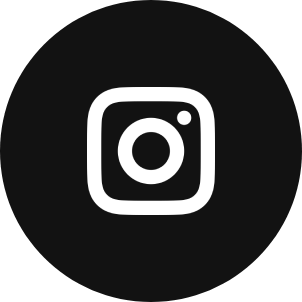
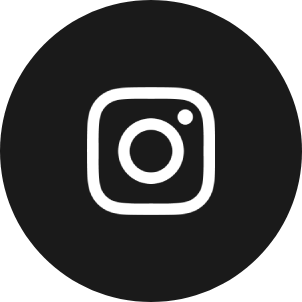
replace design files

diff --git a/src/assets/svg/icons.tsx b/src/assets/svg/icons.tsx
@@ -1,12 +1,12 @@
 export const InstagramIcon = (
-	<svg width='25' height='25' viewBox='0 0 24 24' xmlns='http://www.w3.org/2000/svg'>
-		<path d='M17.3183118,0.0772036939 C18.5358869,0.132773211 19.3775594,0.311686093 20.156489,0.614412318 C20.9357539,0.917263935 21.5259307,1.30117806 22.1124276,1.88767349 C22.6988355,2.47414659 23.0827129,3.06422396 23.3856819,3.84361655 C23.688357,4.62263666 23.8672302,5.46418415 23.9227984,6.68172489 C23.9916356,8.19170553 24,8.72394829 24,11.9999742 C24,15.2760524 23.9916355,15.808302 23.9227954,17.3182896 C23.8672306,18.5358038 23.6883589,19.3773584 23.3855877,20.1566258 C23.0826716,20.9358162 22.6987642,21.5259396 22.1124276,22.1122749 C21.5259871,22.6987804 20.9357958,23.0827198 20.1563742,23.3856323 C19.3772192,23.6883583 18.5357324,23.8672318 17.3183209,23.9227442 C15.8086874,23.9916325 15.2765626,24 12,24 C8.72343739,24 8.19131258,23.9916325 6.68172382,23.9227463 C5.46426077,23.8672314 4.62270711,23.6883498 3.84342369,23.3855738 C3.0641689,23.0827004 2.47399369,22.6987612 1.88762592,22.1123283 C1.30117312,21.525877 0.91721975,20.9357071 0.614318116,20.1563835 C0.311643016,19.3773633 0.132769821,18.5358159 0.0772038909,17.3183251 C0.0083529426,15.8092887 0,15.2774634 0,11.9999742 C0,8.7225328 0.00835296697,8.19071076 0.0772047368,6.68165632 C0.132769821,5.46418415 0.311643016,4.62263666 0.614362729,3.84350174 C0.91719061,3.06430165 1.30113536,2.4741608 1.88757245,1.88772514 C2.47399369,1.30123879 3.0641689,0.917299613 3.84345255,0.614414972 C4.62236201,0.311696581 5.46409415,0.132773979 6.68163888,0.0772035898 C8.19074867,0.00835221992 8.72252573,0 12,0 C15.2774788,0 15.8092594,0.00835235053 17.3183118,0.0772036939 Z M12,2.66666667 C8.75959504,2.66666667 8.26400713,2.67445049 6.80319929,2.74109814 C5.87614637,2.78341009 5.31952221,2.90172878 4.80947575,3.09995521 C4.37397765,3.26922052 4.09725505,3.44924273 3.77324172,3.77329203 C3.44916209,4.09737087 3.26913181,4.37408574 3.09996253,4.80937168 C2.90169965,5.31965737 2.78340891,5.87618164 2.74109927,6.80321713 C2.67445122,8.26397158 2.66666667,8.75960374 2.66666667,11.9999742 C2.66666667,15.2403924 2.67445121,15.7360281 2.74109842,17.1967643 C2.78340891,18.1238184 2.90169965,18.6803426 3.09990404,19.1904778 C3.26914133,19.6259017 3.44919889,19.9026659 3.77329519,20.2267614 C4.09725505,20.5507573 4.37397765,20.7307795 4.80932525,20.8999863 C5.31971515,21.0982887 5.87621193,21.2165784 6.80323907,21.2588497 C8.26460439,21.3255353 8.76051223,21.3333333 12,21.3333333 C15.2394878,21.3333333 15.7353956,21.3255353 17.1968056,21.2588476 C18.123775,21.216579 18.6802056,21.0982995 19.1905083,20.9000309 C19.6260288,20.7307713 19.9027426,20.5507596 20.2267583,20.226708 C20.5507492,19.9027179 20.7308046,19.6259456 20.9000375,19.1906283 C21.0983009,18.6803412 21.2165908,18.1238118 21.2588986,17.196779 C21.3255376,15.7350718 21.3333333,15.2390126 21.3333333,11.9999742 C21.3333333,8.76098665 21.3255376,8.26493375 21.2589016,6.80323567 C21.2165911,5.87618164 21.0983004,5.31965737 20.9001178,4.80957831 C20.7308131,4.37403932 20.550774,4.09729207 20.2267583,3.77324038 C19.9027658,3.44924868 19.6260264,3.26922777 19.1905015,3.09996643 C18.6803988,2.90171817 18.1238378,2.78341062 17.1967608,2.74109868 C15.7359966,2.67445057 15.2404012,2.66666667 12,2.66666667 Z M12,18.2222222 C8.56356156,18.2222222 5.77777778,15.4364384 5.77777778,12 C5.77777778,8.56356156 8.56356156,5.77777778 12,5.77777778 C15.4364384,5.77777778 18.2222222,8.56356156 18.2222222,12 C18.2222222,15.4364384 15.4364384,18.2222222 12,18.2222222 Z M12,15.5555556 C13.9636791,15.5555556 15.5555556,13.9636791 15.5555556,12 C15.5555556,10.0363209 13.9636791,8.44444444 12,8.44444444 C10.0363209,8.44444444 8.44444444,10.0363209 8.44444444,12 C8.44444444,13.9636791 10.0363209,15.5555556 12,15.5555556 Z M18.2222222,7.11111111 C17.4858426,7.11111111 16.8888889,6.51415744 16.8888889,5.77777778 C16.8888889,5.04139811 17.4858426,4.44444444 18.2222222,4.44444444 C18.9586019,4.44444444 19.5555556,5.04139811 19.5555556,5.77777778 C19.5555556,6.51415744 18.9586019,7.11111111 18.2222222,7.11111111 Z' />
+	<svg xmlns='http://www.w3.org/2000/svg' width='25' height='25' viewBox='0.12 31.82 448.27 448.17'>
+		<path d='M224.3 141a115 115 0 1 0 -.6 230 115 115 0 1 0 .6-230zm-.6 40.4a74.6 74.6 0 1 1 .6 149.2 74.6 74.6 0 1 1 -.6-149.2zm93.4-45.1a26.8 26.8 0 1 1 53.6 0 26.8 26.8 0 1 1 -53.6 0zm129.7 27.2c-1.7-35.9-9.9-67.7-36.2-93.9-26.2-26.2-58-34.4-93.9-36.2-37-2.1-147.9-2.1-184.9 0-35.8 1.7-67.6 9.9-93.9 36.1s-34.4 58-36.2 93.9c-2.1 37-2.1 147.9 0 184.9 1.7 35.9 9.9 67.7 36.2 93.9s58 34.4 93.9 36.2c37 2.1 147.9 2.1 184.9 0 35.9-1.7 67.7-9.9 93.9-36.2 26.2-26.2 34.4-58 36.2-93.9 2.1-37 2.1-147.8 0-184.8zM399 388c-7.8 19.6-22.9 34.7-42.6 42.6-29.5 11.7-99.5 9-132.1 9s-102.7 2.6-132.1-9c-19.6-7.8-34.7-22.9-42.6-42.6-11.7-29.5-9-99.5-9-132.1s-2.6-102.7 9-132.1c7.8-19.6 22.9-34.7 42.6-42.6 29.5-11.7 99.5-9 132.1-9s102.7-2.6 132.1 9c19.6 7.8 34.7 22.9 42.6 42.6 11.7 29.5 9 99.5 9 132.1s2.7 102.7-9 132.1z'></path>
 	</svg>
 );
 
 export const MailIcon = (
-	<svg width='25' height='25' xmlns='http://www.w3.org/2000/svg' viewBox='0 0 512 512'>
-		<path d='M64 112c-8.8 0-16 7.2-16 16l0 22.1L220.5 291.7c20.7 17 50.4 17 71.1 0L464 150.1l0-22.1c0-8.8-7.2-16-16-16L64 112zM48 212.2L48 384c0 8.8 7.2 16 16 16l384 0c8.8 0 16-7.2 16-16l0-171.8L322 328.8c-38.4 31.5-93.7 31.5-132 0L48 212.2zM0 128C0 92.7 28.7 64 64 64l384 0c35.3 0 64 28.7 64 64l0 256c0 35.3-28.7 64-64 64L64 448c-35.3 0-64-28.7-64-64L0 128z' />
+	<svg xmlns='http://www.w3.org/2000/svg' width='25' height='25' viewBox='0 0 512 512'>
+		<path d='M48 64c-26.5 0-48 21.5-48 48 0 15.1 7.1 29.3 19.2 38.4l208 156c17.1 12.8 40.5 12.8 57.6 0l208-156c12.1-9.1 19.2-23.3 19.2-38.4 0-26.5-21.5-48-48-48L48 64zM0 196L0 384c0 35.3 28.7 64 64 64l384 0c35.3 0 64-28.7 64-64l0-188-198.4 148.8c-34.1 25.6-81.1 25.6-115.2 0L0 196z' />
 	</svg>
 );
 
@@ -59,19 +59,8 @@ export const LinkedInIcon = (
 );
 
 export const TelegramIcon = (
-	<svg
-		version='1.0'
-		width='25'
-		height='25'
-		xmlns='http://www.w3.org/2000/svg'
-		viewBox='0 0 512.000000 449.000000'
-		preserveAspectRatio='xMidYMid meet'
-	>
-		<g transform='translate(0.000000,449.000000) scale(0.100000,-0.100000)' stroke='none'>
-			<path d='M4665 4416 c-27 -8 -423 -157 -880 -331 -1141 -436 -1919 -733 -2790 -1065 -407 -155 -769 -296 -804 -313 -69 -33 -140 -96 -166 -146 -25 -50 -30 -121 -11 -179 21 -62 97 -137 176 -174 30 -14 200 -67 378 -118 l322 -91 258 132 c514 263 709 363 1377 704 1233 630 1363 695 1387 695 39 0 111 -42 131 -77 24 -41 24 -115 2 -150 -10 -15 -378 -409 -818 -877 -440 -468 -811 -863 -824 -877 -26 -28 -79 -209 -64 -219 4 -3 320 -257 702 -565 382 -308 716 -574 743 -592 108 -74 271 -93 378 -45 90 39 176 138 213 242 9 25 178 844 377 1820 329 1618 361 1784 361 1875 1 80 -4 111 -21 156 -49 124 -159 200 -300 206 -46 2 -97 -3 -127 -11z' />
-			<path d='M2201 2334 c-542 -278 -986 -506 -988 -507 -6 -7 470 -1353 490 -1387 27 -45 69 -101 73 -98 1 2 75 298 164 658 89 360 168 665 175 677 11 17 848 912 1048 1121 23 23 37 42 32 41 -6 -1 -453 -228 -994 -505z' />
-			<path d='M2156 622 c-53 -213 -96 -391 -96 -396 0 -19 108 5 176 39 50 24 107 67 195 147 181 164 265 246 259 251 -31 26 -418 335 -426 340 -8 5 -41 -111 -108 -381z' />
-		</g>
+	<svg xmlns='http://www.w3.org/2000/svg' width='25' height='25' viewBox='3 7 42 35'>
+		<path d='M41.4193 7.30899C41.4193 7.30899 45.3046 5.79399 44.9808 9.47328C44.8729 10.9883 43.9016 16.2908 43.1461 22.0262L40.5559 39.0159C40.5559 39.0159 40.3401 41.5048 38.3974 41.9377C36.4547 42.3705 33.5408 40.4227 33.0011 39.9898C32.5694 39.6652 24.9068 34.7955 22.2086 32.4148C21.4531 31.7655 20.5897 30.4669 22.3165 28.9519L33.6487 18.1305C34.9438 16.8319 36.2389 13.8019 30.8426 17.4812L15.7331 27.7616C15.7331 27.7616 14.0063 28.8437 10.7686 27.8698L3.75342 25.7055C3.75342 25.7055 1.16321 24.0823 5.58815 22.459C16.3807 17.3729 29.6555 12.1786 41.4193 7.30899Z' />
 	</svg>
 );
 
